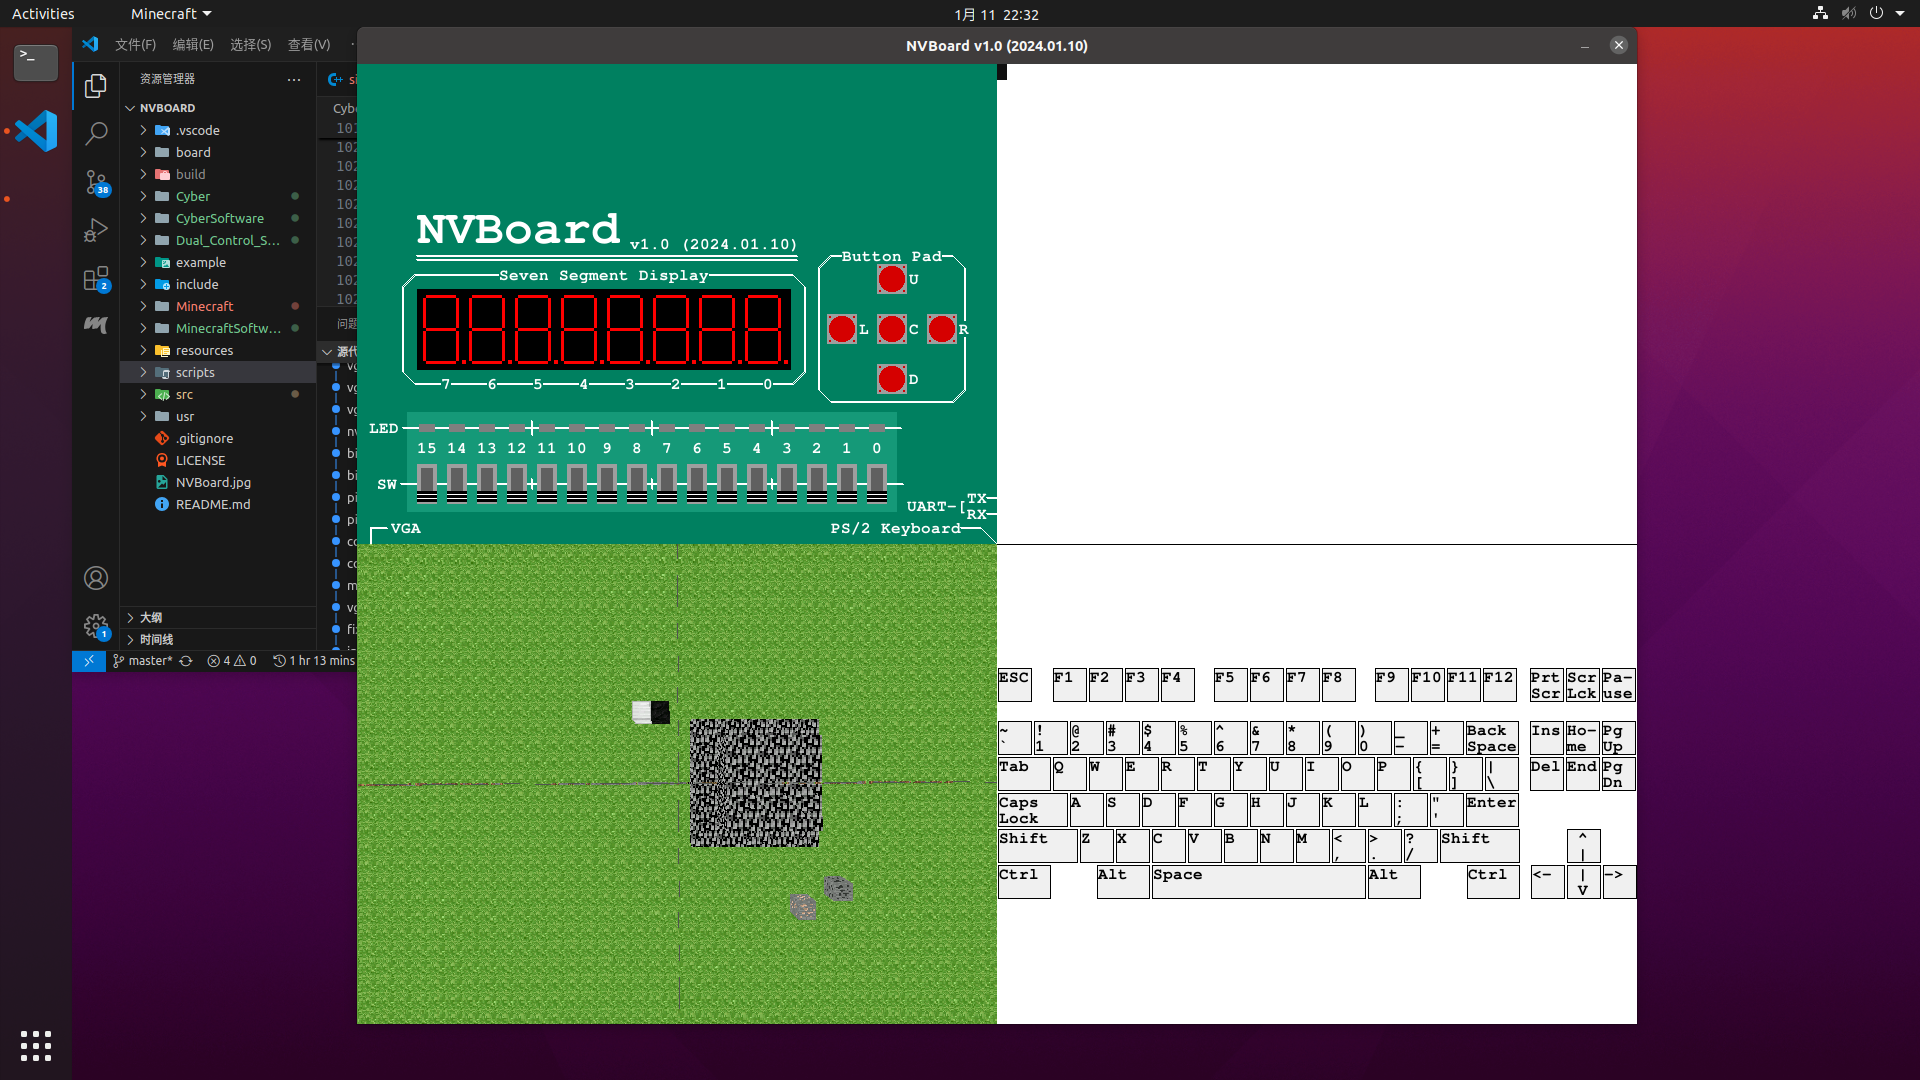
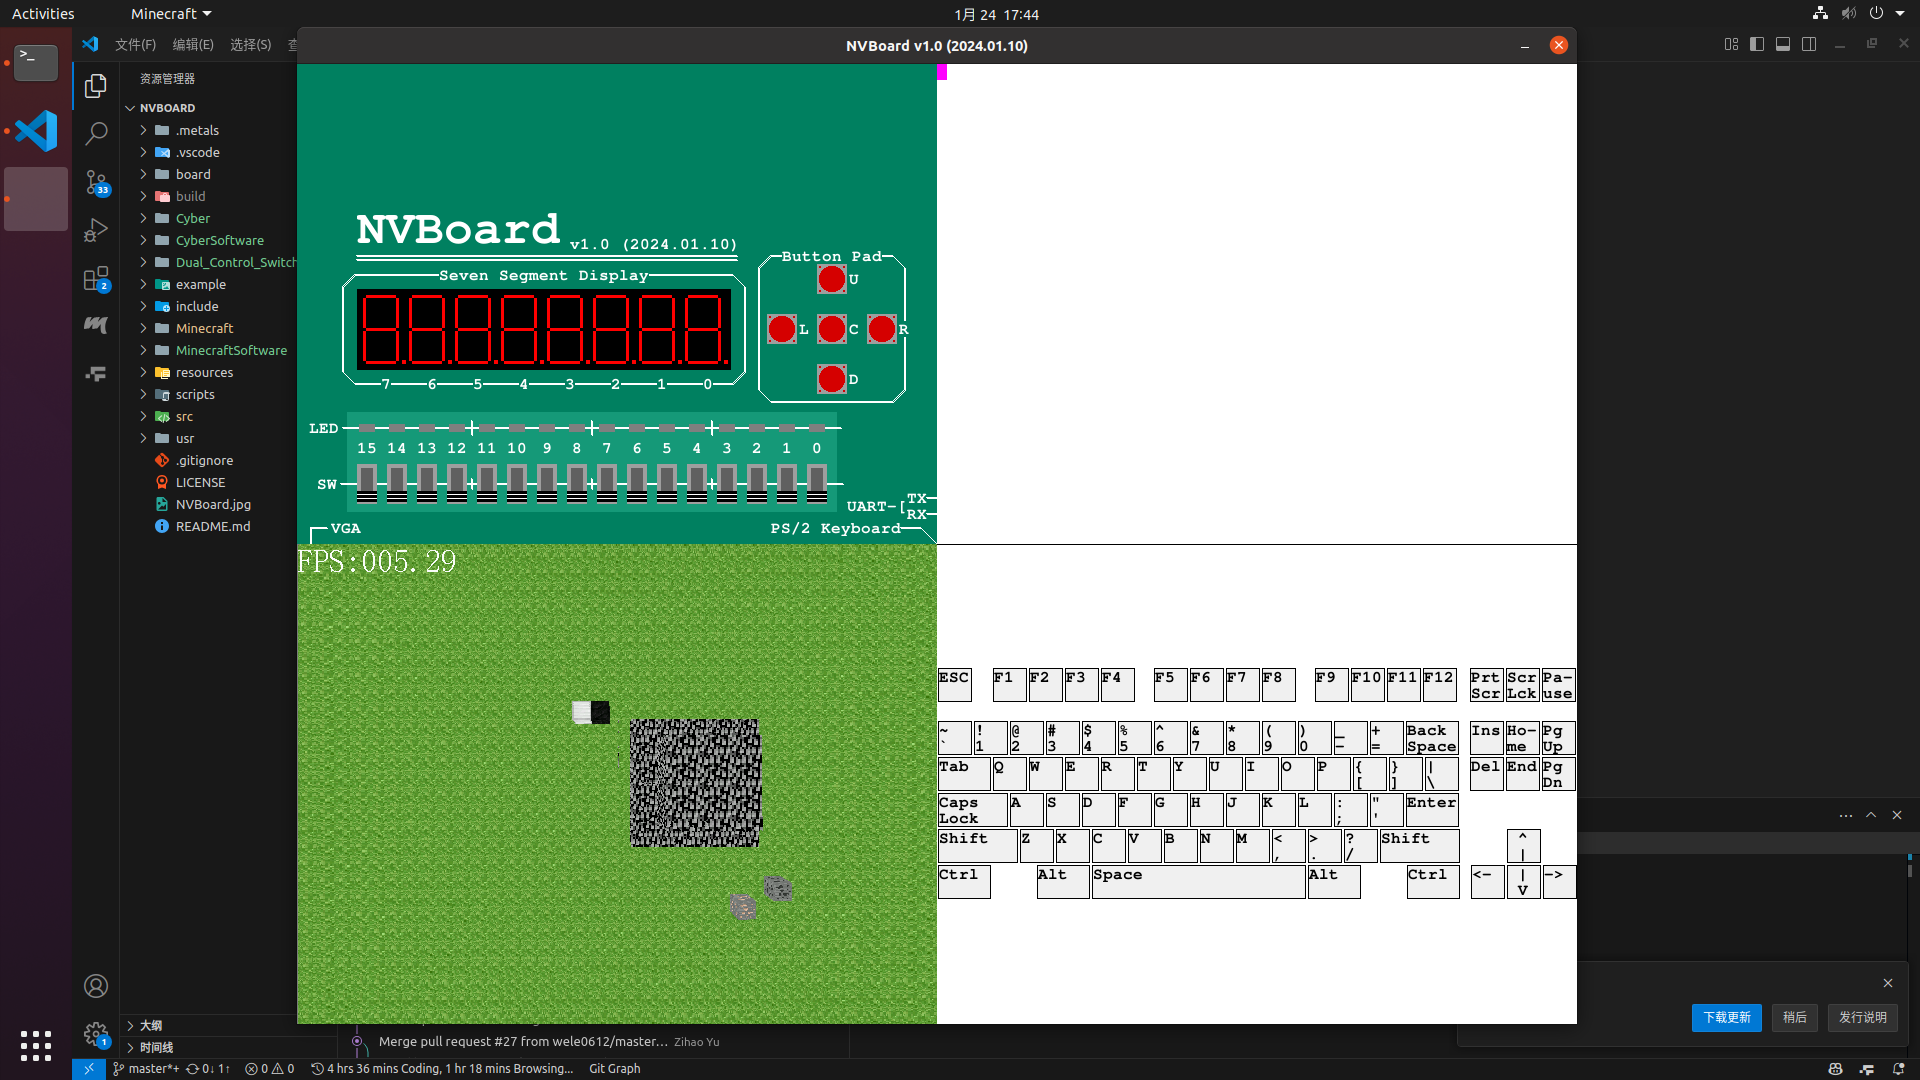
riscv software render add fps str mask

diff --git a/README.md b/README.md
@@ -100,11 +100,11 @@
 
 ![Frame_render-Hardware](Document/Frame_render-Hardware.jpg)
 
-> Hardware rendering pipeline (45MHz), about 2fps.
+> Hardware rendering pipeline (45MHz), about 68.88 fps.
 
-![Nvboard](Document/Nvboard.png)
+![Nvboard](Document/NvBoard.png)
 
-> Virtual FPGA Board (NvBoard) rendering pipeline.
+> Virtual FPGA Board (NvBoard) rendering pipeline. Low frequency lead to low frame rate - 5.29 fps.
 
 This FPGA project involves the development of a Minecraft game entirely in hardware. The game enables players to place and break blocks, move, and fly. It utilizes a rendering pipeline to calculate the color of each pixel, ultimately displaying the generated frames on an HDMI screen. This hardware-based approach ensures efficient real-time rendering and interaction within the game environment.
 
